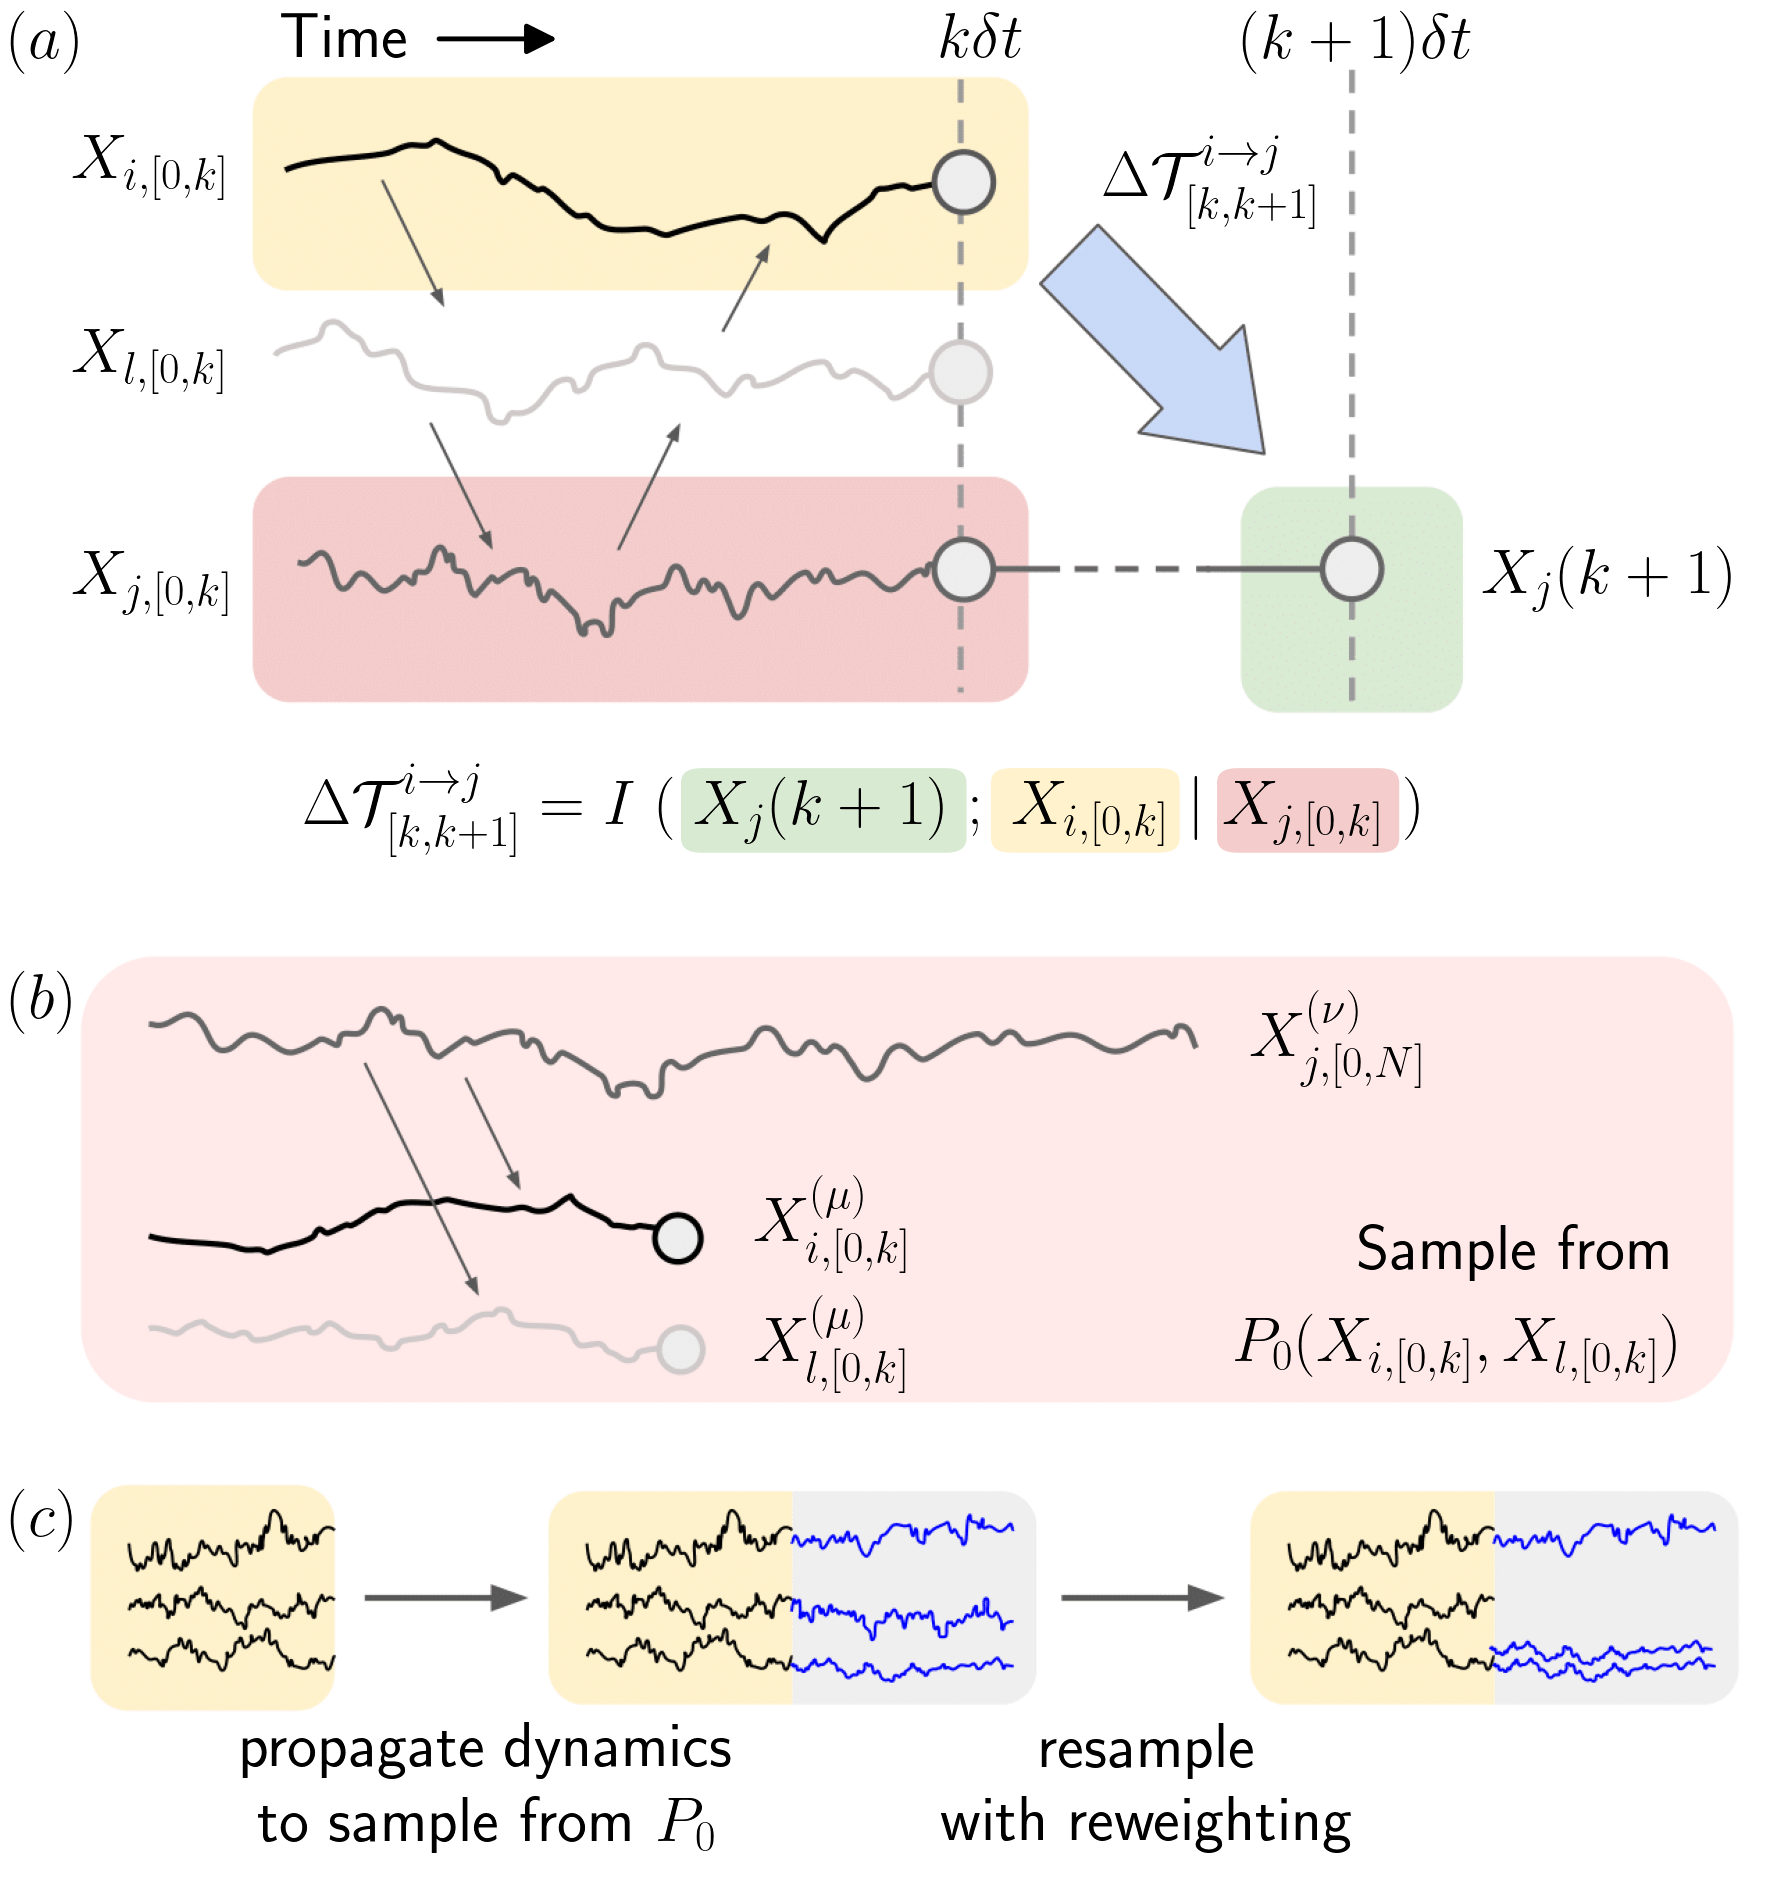
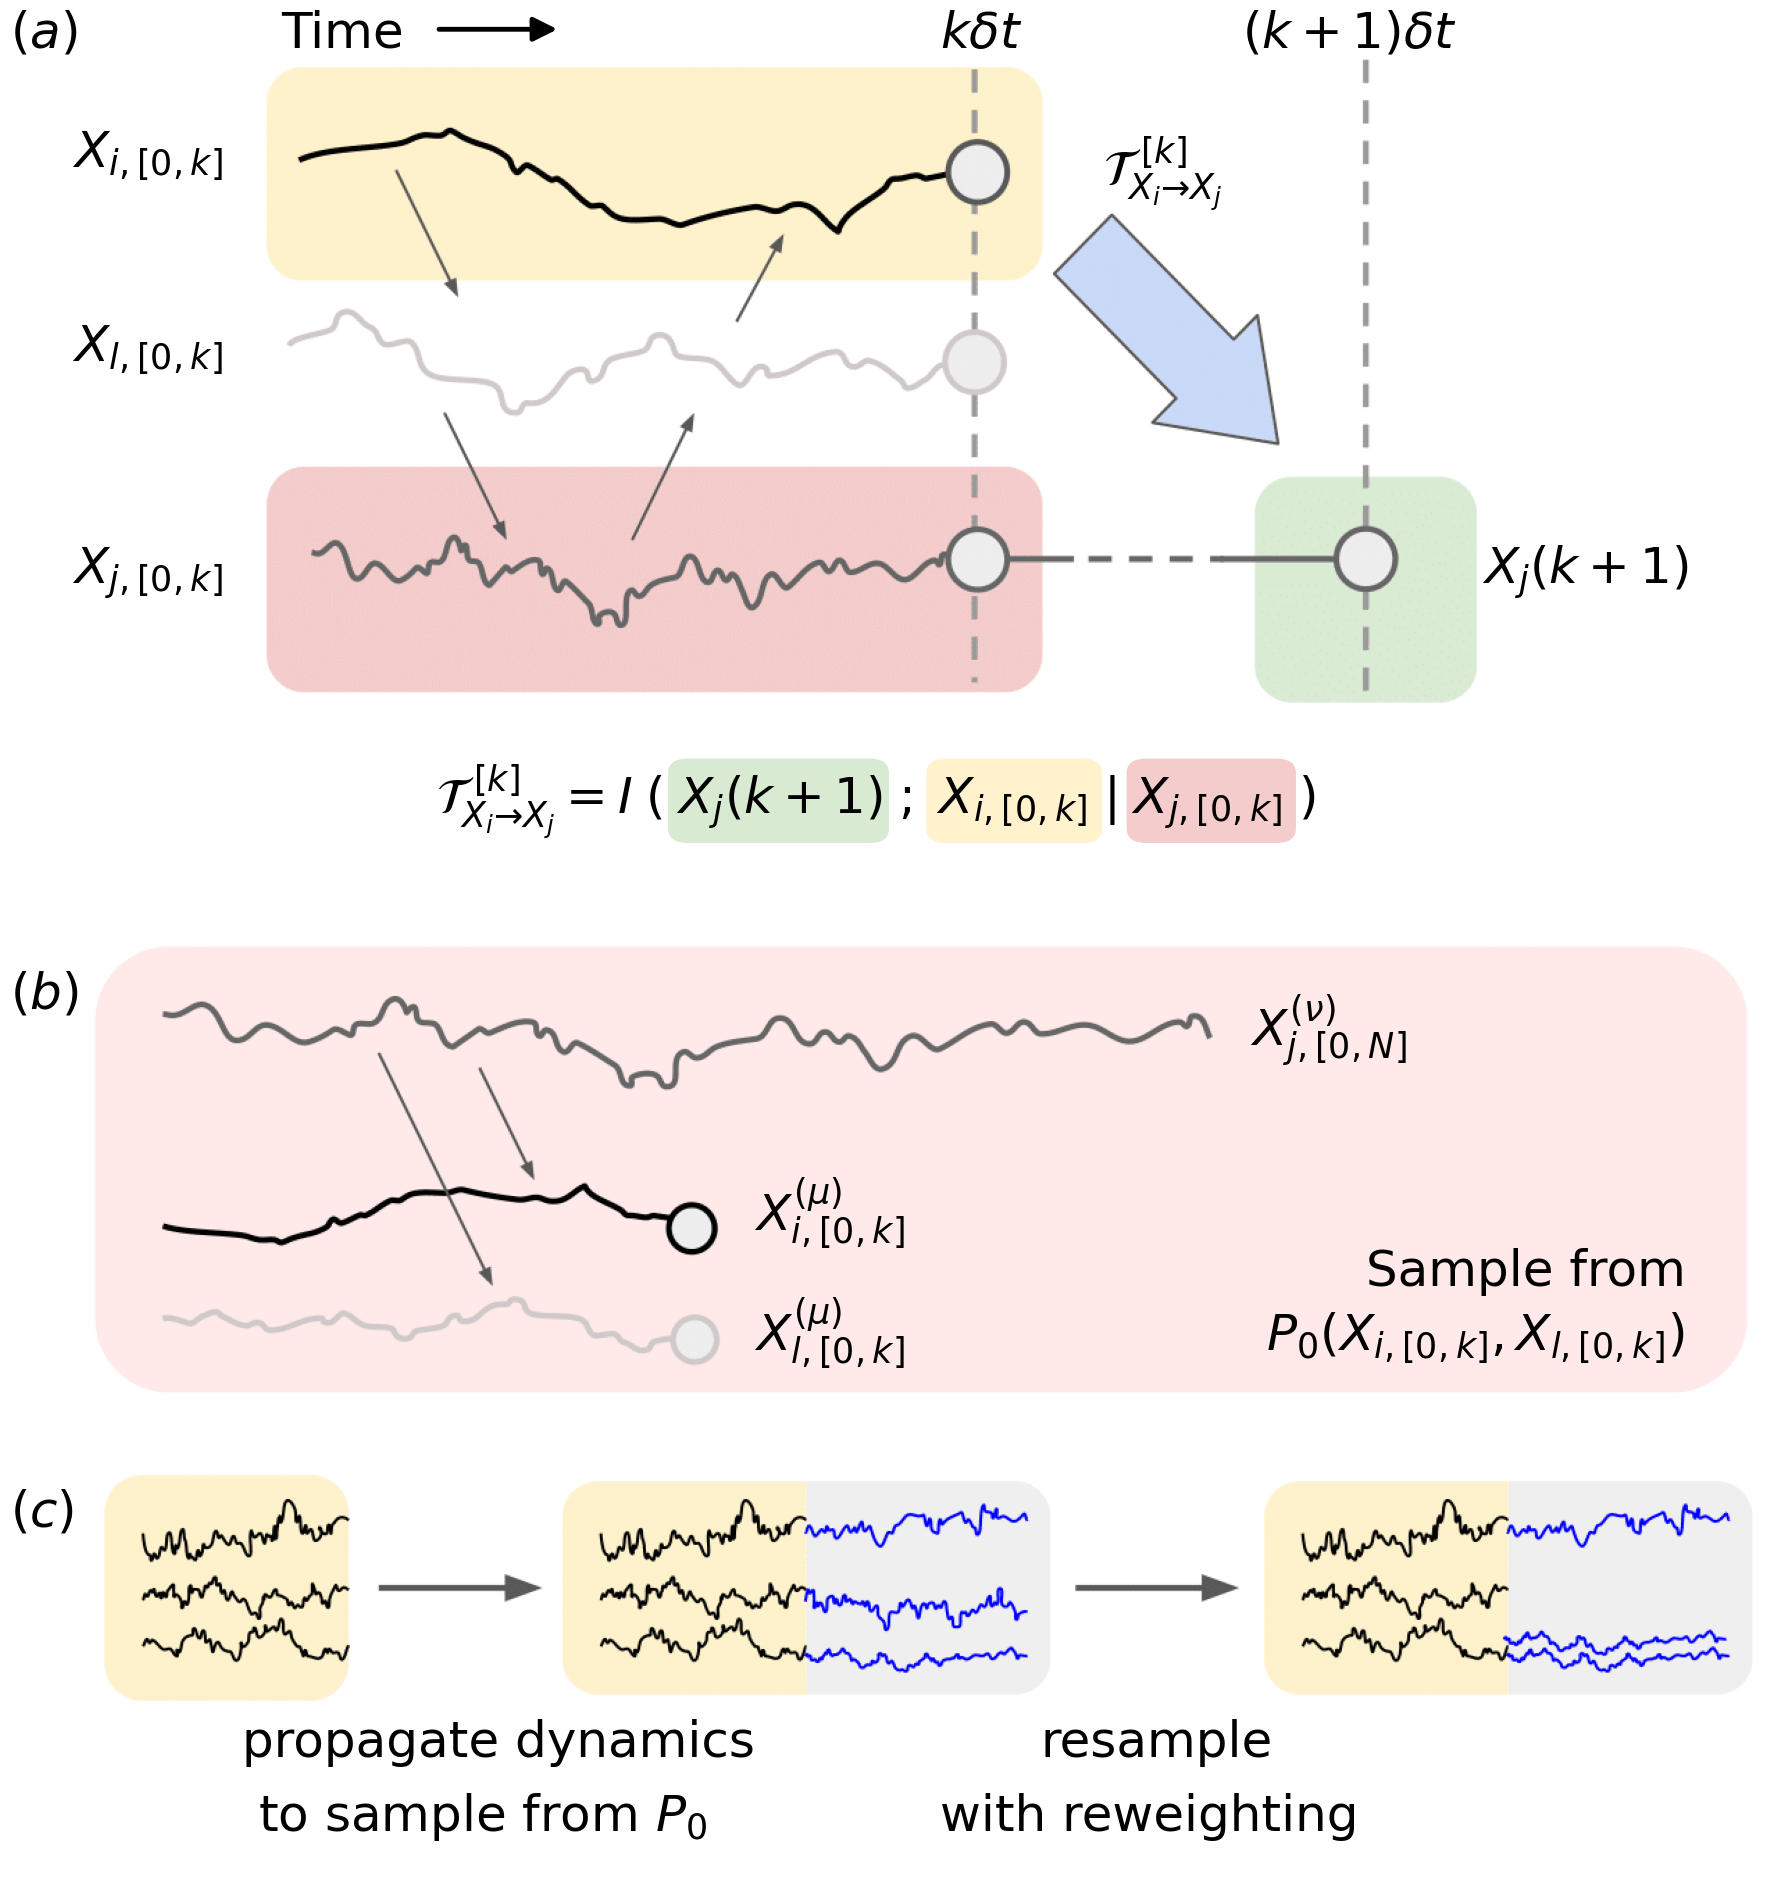
Add files via upload

diff --git a/figures/fig1/plot_schematic.py b/figures/fig1/plot_schematic.py
@@ -23,8 +23,10 @@ from matplotlib.patches import Rectangle, FancyBboxPatch
 #mpl.rcParams['mathtext.fontset'] = 'cm'
 #mpl.rcParams['mathtext.rm'] = 'serif'
 #mpl.rcParams.update({'font.size': 22})
-plt.rc('font', size = 46)
-plt.rc('text', usetex = True)
+plt.rc('font', size = 36)
+#plt.rc('text', usetex = True)
+plt.rc('mathtext',rm='dejavusans')
+plt.rc('mathtext',fontset='dejavusans')
 
 fig = plt.figure(figsize = (10, 12))
 plt.subplots_adjust(hspace=0.5,wspace=0.3)
@@ -33,7 +35,7 @@ ax00=fig.add_subplot(gs[0,0])
 
 schmn=mpimg.imread('schematic.png')
 print(schmn.shape)
-schm=schmn[10:-80,190:1440,:]
+schm=schmn[10:-80,190:1420,:]
 imagebox1 = OffsetImage(schm, zoom=1)
 ab1 = AnnotationBbox(imagebox1, (0.5,0.5),frameon=False,pad=0.1,xycoords='axes fraction')
 ax00.add_artist(ab1)
@@ -70,26 +72,26 @@ ax00.annotate(r'$X_{l,[0,k]}$',xy=(-0.57,1.14),xycoords='axes fraction',zorder=n
 ax00.annotate(r'$X_{j,[0,k]}$',xy=(-0.57,0.9),xycoords='axes fraction',zorder=np.inf)
 ax00.annotate(r'$X_{j}(k+1)$',xy=(1.25,0.9),xycoords='axes fraction',zorder=np.inf)
 
-ax00.annotate(r'$\Delta\mathcal{T}^{i\to j}_{[k,k+1]}$',xy=(0.76,1.33),xycoords='axes fraction',zorder=np.inf)
+ax00.annotate(r'$\mathcal{T}_{X_{i}\to X_{j}}^{~[k]}$',xy=(0.76,1.33),xycoords='axes fraction',zorder=np.inf)
 
-xs1=-0.42
+xs1=-0.47
 ys1=-0.02
 
-rounded_rect = FancyBboxPatch((0.99+xs1, 0.64+ys1), 0.145, 0.09, transform=ax00.transData,boxstyle='Round, pad=0,rounding_size=0.015', color='#fff2ccff', clip_on=False,zorder=np.inf)
+rounded_rect = FancyBboxPatch((0.99+xs1, 0.64+ys1), 0.135, 0.09, transform=ax00.transData,boxstyle='Round, pad=0,rounding_size=0.015', color='#fff2ccff', clip_on=False,zorder=np.inf)
 ax00.add_patch(rounded_rect)
-rounded_rect = FancyBboxPatch((1.165+xs1, 0.64+ys1), 0.14, 0.09, transform=ax00.transData,boxstyle='Round, pad=0,rounding_size=0.015', color='#f4ccccff', clip_on=False,zorder=np.inf)
+rounded_rect = FancyBboxPatch((1.145+xs1, 0.64+ys1), 0.13, 0.09, transform=ax00.transData,boxstyle='Round, pad=0,rounding_size=0.015', color='#f4ccccff', clip_on=False,zorder=np.inf)
 ax00.add_patch(rounded_rect)
-rounded_rect = FancyBboxPatch((0.75+xs1, 0.64+ys1), 0.22, 0.09, transform=ax00.transData,boxstyle='Round, pad=0,rounding_size=0.015', color='#d9ead3ff', clip_on=False,zorder=np.inf)
+rounded_rect = FancyBboxPatch((0.79+xs1, 0.64+ys1), 0.17, 0.09, transform=ax00.transData,boxstyle='Round, pad=0,rounding_size=0.015', color='#d9ead3ff', clip_on=False,zorder=np.inf)
 ax00.add_patch(rounded_rect)
 
-ax00.annotate(r'$\Delta\mathcal{T}^{i\to j}_{[k,k+1]}=I\;(\; X_{j}(k+1)\; ;\;X_{i,[0,k]}\;| \; X_{j,[0,k]}\;)$',xy=(-0.27,0.65),xycoords='axes fraction',zorder=np.inf)
+ax00.annotate(r'$\mathcal{T}_{X_{i}\to X_{j}}^{~[k]}=I\;(\; X_{j}(k+1)\; ;\;X_{i,[0,k]}\;| \; X_{j,[0,k]}\;)$',xy=(-0.1,0.65),xycoords='axes fraction',zorder=np.inf)
 
 ax00.annotate(r'$X_{j,[0,N]}^{(\nu)}$',xy=(0.95,0.4),xycoords='axes fraction',zorder=np.inf)
 ax00.annotate(r'$X_{i,[0,k]}^{(\mu)}$',xy=(0.31,0.2),xycoords='axes fraction',zorder=np.inf)
 ax00.annotate(r'$X_{l,[0,k]}^{(\mu)}$',xy=(0.31,0.07),xycoords='axes fraction',zorder=np.inf)
 #ax00.annotate(r'$P_{0}(X_{i,[0,k]}^{(\mu)},X_{l,[0,k]}^{(\mu)})$',xy=(0.31,0.17),xycoords='axes fraction',zorder=np.inf)
-ax00.annotate(r'Sample from',xy=(1.09,0.17),xycoords='axes fraction',zorder=np.inf)
-ax00.annotate(r'$P_{0}(X_{i,[0,k]},X_{l,[0,k]})$',xy=(0.93,0.07),xycoords='axes fraction',zorder=np.inf)
+ax00.annotate(r'Sample from',xy=(1.1,0.14),xycoords='axes fraction',zorder=np.inf)
+ax00.annotate(r'$P_{0}(X_{i,[0,k]},X_{l,[0,k]})$',xy=(0.97,0.07),xycoords='axes fraction',zorder=np.inf)
 
 ax00.annotate(r'propagate dynamics',xy=(-0.35,-0.37),xycoords='axes fraction',zorder=np.inf)
 ax00.annotate(r'to sample from $P_{0}$',xy=(-0.33,-0.45),xycoords='axes fraction',zorder=np.inf)
